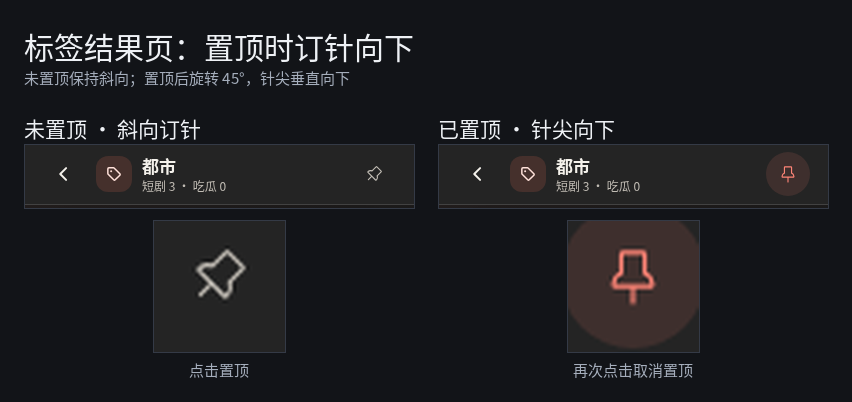
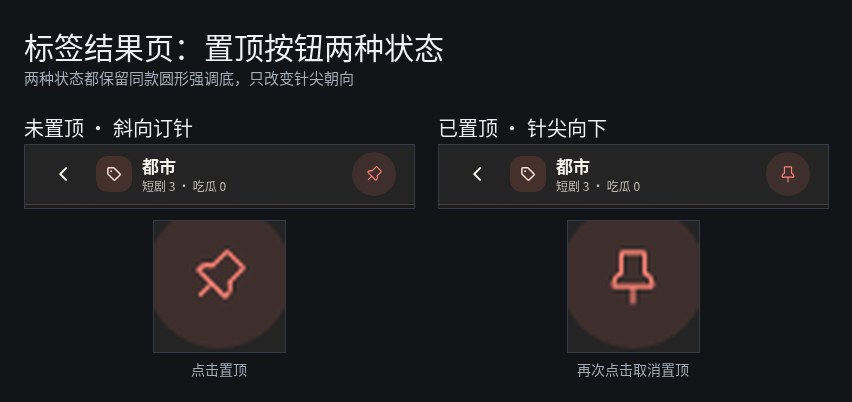
fix(tags): simplify pinned tag styling and pin states

diff --git a/src/features/discover/Discover.tsx b/src/features/discover/Discover.tsx
@@ -287,8 +287,8 @@ const TAG_PIN_HOLD_MS = 600;
 const TAG_PIN_MOVE_PX = 10;
 
 /** A tag chip that opens on tap and toggles its pinned state on a deliberate hold. */
-function TagPinChip({ name, hotScore, pinned, onOpen, onTogglePin }: {
-  name: string; hotScore?: number; pinned: boolean;
+function TagPinChip({ name, hotScore, pinned, board = false, onOpen, onTogglePin }: {
+  name: string; hotScore?: number; pinned: boolean; board?: boolean;
   onOpen: () => void; onTogglePin: (name: string) => void;
 }) {
   const [pressing, setPressing] = useState(false);
@@ -353,13 +353,12 @@ function TagPinChip({ name, hotScore, pinned, onOpen, onTogglePin }: {
   };
 
   return <Button type="button" aria-label={pinned ? tr("长按取消置顶：{0}", name) : tr("长按置顶：{0}", name)}
-    data-tag-name={name} data-pinned={pinned ? "true" : undefined} data-pressing={pressing ? "true" : undefined}
+    data-tag-name={name} data-pinned={pinned ? "true" : undefined} data-pin-surface={board ? "board" : "group"} data-pressing={pressing ? "true" : undefined}
     onPointerDown={pointerDown} onPointerMove={pointerMove} onPointerUp={pointerUp} onPointerCancel={pointerCancel}
     onPointerLeave={cancelHold} onClick={click} onContextMenu={event => event.preventDefault()}
     className="ios-filter-pill tag-pin-pill max-w-full min-w-0 gap-1.5 text-left">
     <span className="min-w-0 whitespace-normal break-words text-on/95">{name}</span>
     {!!hotScore && <span aria-label={tr("热度 {0}", fmt(hotScore))} className="shrink-0 inline-flex items-center gap-0.5 text-[11.5px] font-medium text-dim tabular-nums"><IFireF size={11} className="text-primary/85" />{fmt(hotScore)}</span>}
-    {pinned && <IPin size={12} className="tag-pin-mark" aria-hidden="true" />}
   </Button>;
 }
 
@@ -406,7 +405,7 @@ export function TagsPage({ onBack, wide }: { onBack: () => void; wide: boolean }
           </div>
           <p className="mt-1 text-[12px] leading-relaxed text-mut">{pinnedTags.length ? tr("长按标签置顶，再长按取消") : tr("长按下方标签可置顶")}</p>
           {pinnedTags.length > 0 && <div className="mt-3 flex flex-wrap gap-2">
-            {pinnedTags.map(name => <TagPinChip key={name} name={name} pinned onOpen={() => push({ kind: "tag", tag: name, name })} onTogglePin={togglePin} />)}
+            {pinnedTags.map(name => <TagPinChip key={name} name={name} pinned board onOpen={() => push({ kind: "tag", tag: name, name })} onTogglePin={togglePin} />)}
           </div>}
         </Surface>}
         {loading && !groups.length ? (

diff --git a/src/styles/ios.css b/src/styles/ios.css
@@ -507,10 +507,8 @@ html.theme-light {
 .ios-filter-pill[aria-pressed=true]:active { scale:.96; }
 .tag-pin-pill { touch-action:manipulation; -webkit-user-select:none; user-select:none; -webkit-touch-callout:none; }
 .tag-pin-pill[data-pressing="true"] { scale:.96; border-color:var(--p-primary); }
-.tag-pin-pill[data-pinned="true"] { border-color:var(--p-primary); background:color-mix(in srgb, var(--p-primary) 10%, var(--p-s3)); }
-.tag-pin-mark { flex:none; color:var(--p-primary); }
-.tag-page-pin.ios-button { display:inline-flex; align-items:center; justify-content:center; width:36px; height:36px; min-width:36px; min-height:36px; padding:0; flex:none; border-radius:50%; background:transparent; color:var(--p-mut); }
-.tag-page-pin.ios-button[aria-pressed="true"] { color:var(--p-accent); background:color-mix(in srgb, var(--p-accent) 12%, transparent); }
+.tag-pin-pill[data-pinned="true"][data-pin-surface="group"] { border-color:var(--p-primary); background:color-mix(in srgb, var(--p-primary) 10%, var(--p-s3)); }
+.tag-page-pin.ios-button { display:inline-flex; align-items:center; justify-content:center; width:36px; height:36px; min-width:36px; min-height:36px; padding:0; flex:none; border-radius:50%; background:color-mix(in srgb, var(--p-accent) 12%, transparent); color:var(--p-accent); }
 .tag-page-pin-icon { transform:rotate(0deg); transition:transform 180ms cubic-bezier(.2,.8,.2,1); }
 .tag-page-pin.ios-button[aria-pressed="true"] .tag-page-pin-icon { transform:rotate(-45deg); }
 .tag-page-pin.ios-button:active { scale:.92; }
